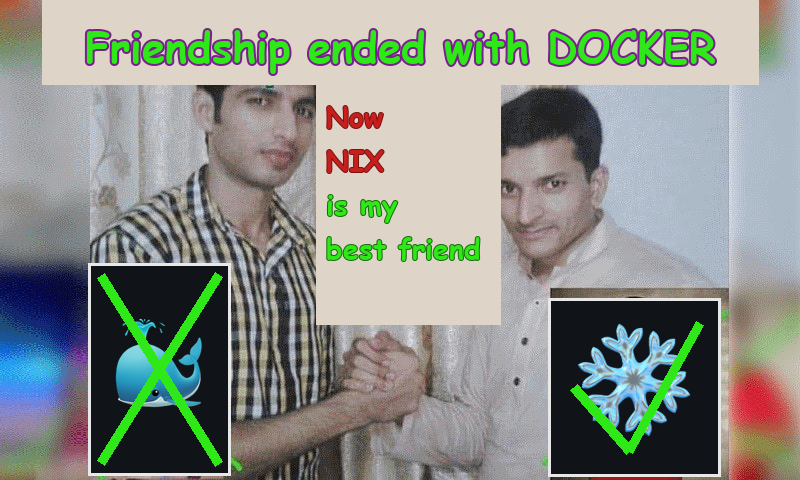
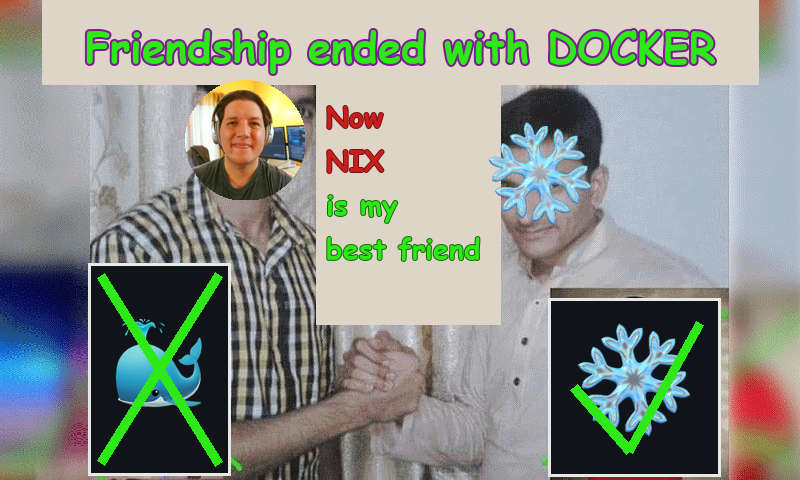
vlog: meme leads the post — Dario shakes hands with Nix
Meme moved to right under the title, knife hero removed (the meme is the
card image now). Left face is Dario's avatar, right is the Nix snowflake,
whale crossed out in the corner — original terrible design faithfully
preserved.

Changed region(s): [[0.2188, 0.1562, 0.4062, 0.4375], [0.5938, 0.25, 0.75, 0.4688]]

diff --git a/engineering-vlog/content/posts/we-deleted-docker.md b/engineering-vlog/content/posts/we-deleted-docker.md
@@ -6,18 +6,16 @@ description = "14 Dockerfiles to zero, CI wall time halved, browser tests 13:19 
 tags = ["nix", "docker", "ci", "rust", "devops", "dx"]
 authors = ["Dario Lencina Talarico"]
 [extra]
-remote_image = "/images/we-deleted-docker-hero.svg"
+remote_image = "/images/friendship-ended-with-docker.png"
 +++
 
 # We Deleted Docker (and the Flakes Too)
 
-<div style="font-size:6rem;line-height:1;margin:0.5rem 0;">🔪</div>
+![Friendship ended with DOCKER — now NIX is my best friend](/images/friendship-ended-with-docker.png)
 
 Not the images. The Dockerfiles. All 14 of them.
 
 The old setup ran Nix *inside* Docker. A nixos container per service, bind-mounting the repo, each with its own private Nix store volume. We were paying container tax to run a build system whose whole point is not needing containers. Peak cosplay.
-
-![Friendship ended with DOCKER — now NIX is my best friend](/images/friendship-ended-with-docker.png)
 
 [Last time](/posts/nixify-your-leptos-website-and-stop-compiling-your-tools/) we flaked the website and went 19→5 minutes. This time we went further and deleted the flakes too. Classic Nix: `default.nix`, `release.nix`, `shell.nix`. Inputs pinned with [nixtamal](https://nixtamal.toast.al/) — a plain KDL manifest, evaluable by any Nix since forever. Docker images are just derivations:
 
